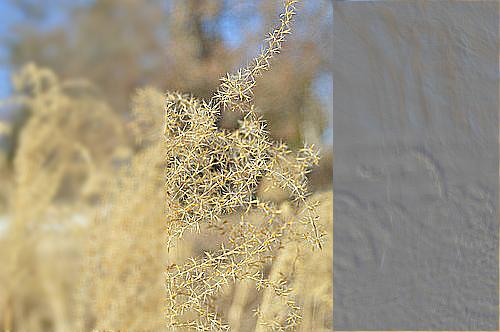
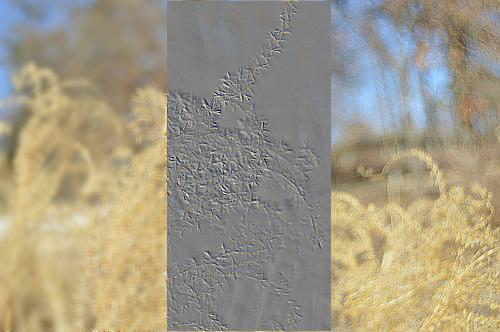
General cleaning

diff --git a/DivideAndRecreate.py b/DivideAndRecreate.py
@@ -1,6 +1,7 @@
 # Brenna Blackwell
 # DivideAndRecreate.py
-# University of Arkansas CSCE Capstone II - Spring 2004
+# University of Arkansas 
+# CSCE Capstone II - Spring 2004
 
 import sys
 from PIL import Image, ImageFilter
@@ -17,23 +18,23 @@ def main():
   		
   		firstThird = original.crop((0, 0, first, height))
   		firstThird.save("images/FirstThird.jpg")
-  		firstThirdBlur = firstThird.filter(ImageFilter.BLUR)
-  		firstThirdBlur.save("images/FirstThirdBlur.jpg")
+  		firstThirdFilter = firstThird.filter(ImageFilter.BLUR)
+  		firstThirdFilter.save("images/FirstThirdFilter.jpg")
   		
   		secondThird = original.crop((first, 0, second, height))
   		secondThird.save("images/SecondThird.jpg")
-  		secondThirdEdge = secondThird.filter(ImageFilter.EDGE_ENHANCE)
-  		secondThirdEdge.save("images/SecondThirdEdge.jpg")
+  		secondThirdFilter = secondThird.filter(ImageFilter.EMBOSS)
+  		secondThirdFilter.save("images/SecondThirdFilter.jpg")
   		  		
   		thirdThird = original.crop((second, 0, width, height))
   		thirdThird.save("images/ThirdThird.jpg")
-  		thirdThirdEmboss = thirdThird.filter(ImageFilter.EMBOSS)
-  		thirdThirdEmboss.save("images/thirdFilterEmboss.jpg")
+  		thirdThirdFilter = thirdThird.filter(ImageFilter.EDGE_ENHANCE)
+  		thirdThirdFilter.save("images/thirdThirdFilter.jpg")
   		
   		finalImage = Image.new("RGB", (width, height))
-  		finalImage.paste(firstThirdBlur, (0, 0))
-  		finalImage.paste(secondThirdEdge, (first, 0))
-  		finalImage.paste(thirdThirdEmboss, (second, 0))
+  		finalImage.paste(firstThirdFilter, (0, 0))
+  		finalImage.paste(secondThirdFilter, (first, 0))
+  		finalImage.paste(thirdThirdFilter, (second, 0))
   		finalImage.save("images/FinalImage.jpg")
   		
 	
